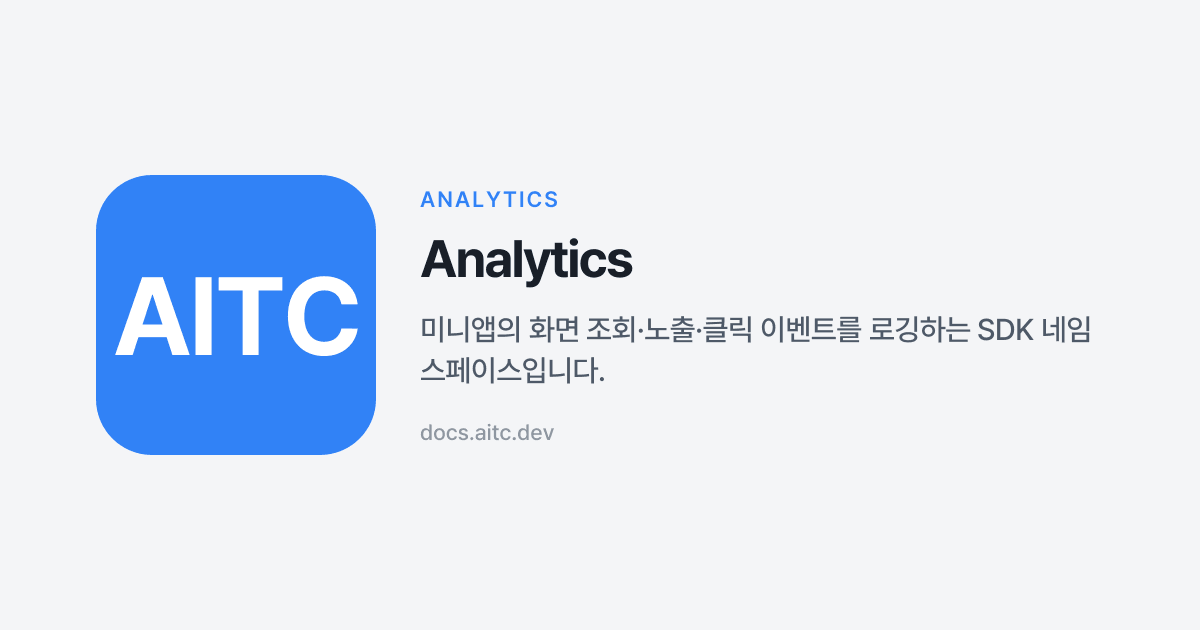
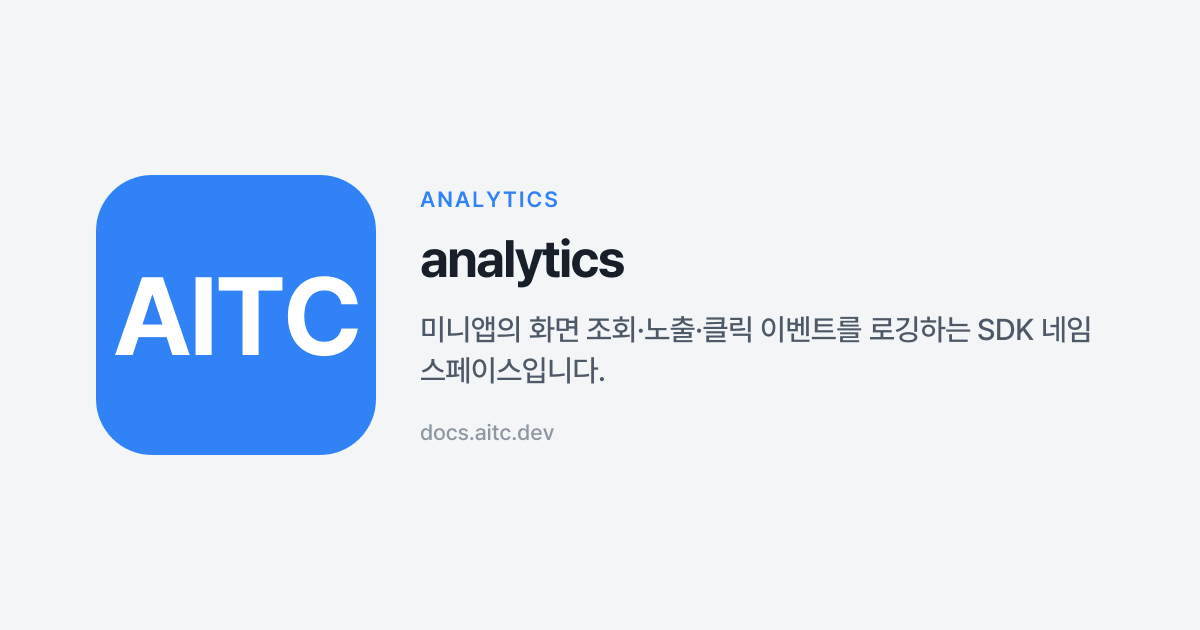
refactor: sweep 2026-05-19 — tone, sidebar order, namespace count, haptic overview (#77)
Tone / upstream 표현 제거:
- docusaurus.config.ts footer 'Upstream' → 'SDK Package'
- README.md / README.en.md: blockquote+이모지+굵은글씨 톤 제거, "upstream SDK docs" → 커뮤니티 표현
- i18n/en guides 8개 파일: "upstream SDK package." → "SDK package."
- auth-flow.mdx: "not the upstream behavior" → "runtime behaviour is simulated"

Sidebar 알파벳순 수정:
- API 사이드바: location을 game/haptic/iap 뒤로 이동 (events→game→haptic→iap→location 순)
- Guides 사이드바: event-logging ↔ event-subscription 순서 교환

네임스페이스 수 갱신:
- intro.md (ko/en): "16개/namespaces" → "18개/namespaces"

Overview convention 위반 수정:
- haptic overview (index.mdx) 삭제 — 메서드 1개(generateHapticFeedback)만 남아 규칙 위반
- generateHapticFeedback.mdx에 피드백 타입 표 인라인, 깨진 링크 수정
- sidebars.ts에서 haptic-overview 엔트리 제거

OG 이미지 동기화:
- static/og/api-haptic-saveBase64Data.png 삭제 (stale)
- static/og/api-haptic.png 삭제 (overview 삭제로 불필요)
- static/og/api-storage-saveBase64Data.png 생성 (누락 → build:og로 생성)

Frontmatter:
- i18n/en/api/storage/saveBase64Data.mdx에 image frontmatter 추가 (ko 버전과 일치)
- analytics/index.mdx: title 'Analytics' → 'analytics' (소문자, 다른 overview와 통일)

기존 broken anchor 수정:
- iap-state-queries.mdx: /guides/iap-payment-flow#복구-—-handling-pending-orders → 실제 앵커로 수정

Changed region(s): [[0.3392, 0.3619, 0.5242, 0.4524]]

diff --git a/sidebars.ts b/sidebars.ts
@@ -21,8 +21,8 @@ const sidebars: SidebarsConfig = {
         'guides/anonymous-key-game-session',
         'guides/auth-flow',
         'guides/camera-album-ux',
-        'guides/event-subscription',
         'guides/event-logging',
+        'guides/event-subscription',
         'guides/iap-payment-flow',
         'guides/iap-state-queries',
         'guides/location-permission-fallback',
@@ -141,16 +141,6 @@ const sidebars: SidebarsConfig = {
         },
         {
           type: 'category',
-          label: 'location',
-          collapsed: false,
-          items: [
-            'api/location/location-overview',
-            'api/location/getCurrentLocation',
-            'api/location/startUpdateLocation',
-          ],
-        },
-        {
-          type: 'category',
           label: 'game',
           collapsed: false,
           items: [
@@ -167,7 +157,7 @@ const sidebars: SidebarsConfig = {
           type: 'category',
           label: 'haptic',
           collapsed: false,
-          items: ['api/haptic/haptic-overview', 'api/haptic/generateHapticFeedback'],
+          items: ['api/haptic/generateHapticFeedback'],
         },
         {
           type: 'category',
@@ -183,6 +173,16 @@ const sidebars: SidebarsConfig = {
             'api/iap/getPendingOrders',
             'api/iap/getProductItemList',
             'api/iap/getSubscriptionInfo',
+          ],
+        },
+        {
+          type: 'category',
+          label: 'location',
+          collapsed: false,
+          items: [
+            'api/location/location-overview',
+            'api/location/getCurrentLocation',
+            'api/location/startUpdateLocation',
           ],
         },
         {

diff --git a/docusaurus.config.ts b/docusaurus.config.ts
@@ -121,7 +121,7 @@ const config: Config = {
           ],
         },
         {
-          title: 'Upstream',
+          title: 'SDK Package',
           items: [
             {
               label: '@apps-in-toss/web-framework (npm)',

diff --git a/docs/intro.md b/docs/intro.md
@@ -13,7 +13,7 @@ sidebar_position: 1
 ## 무엇을 찾을 수 있나요
 
 - **Guides** — 인증·결제·권한·이벤트 구독·광고·뷰럴 등 흔한 시나리오를 "왜/언제" 관점에서 설명. 현재 14편.
-- **API reference** — 16개 네임스페이스의 SDK 메서드를 그룹별로 정리. 파라미터·반환값·예제·관련 가이드를 한 페이지에.
+- **API reference** — 18개 네임스페이스의 SDK 메서드를 그룹별로 정리. 파라미터·반환값·예제·관련 가이드를 한 페이지에.
 - **Recipes** — 복사해서 바로 쓰는 짧은 스니펫. 클립보드 UX, 분석 추적, 게임 센터 연동, 환경별 분기 등 27편.
 - **Try it 링크** — 각 API 페이지는 [sdk-example](https://sdk-example.aitc.dev/)의 대응 페이지로 바로 이동하는 버튼을 제공합니다.
 

diff --git a/i18n/en/docusaurus-plugin-content-docs/current/intro.md b/i18n/en/docusaurus-plugin-content-docs/current/intro.md
@@ -12,7 +12,7 @@ Community guides and references for developers building Apps in Toss mini-apps w
 ## What's here
 
 - **Guides** — common scenarios (auth, IAP, permissions, event subscription, ads, viral) explained from a community "why/when" angle. 14 currently.
-- **API reference** — 16 namespaces of SDK methods grouped by namespace, with params, return value, examples, and related guides on one page.
+- **API reference** — 18 namespaces of SDK methods grouped by namespace, with params, return value, examples, and related guides on one page.
 - **Recipes** — short copy-paste snippets. Clipboard UX, analytics tracking, GameCenter integration, environment-based branching, and more. 27 currently.
 - **Try it** — every API page links to the matching page in [sdk-example](https://sdk-example.aitc.dev/) so you can run it live.
 

diff --git a/README.md b/README.md
@@ -2,9 +2,7 @@
 
 [English](./README.en.md)
 
-> 🚧 **Work in Progress** — 콘텐츠는 초기 단계지만, 사이트는 라이브입니다. `main` 푸시 시 GitHub Actions로 자동 배포됩니다.
-
-**Apps in Toss** 미니앱 개발을 위한 커뮤니티 문서 사이트. 원본 SDK 문서를 재구성한 **가이드/레퍼런스** 세트입니다.
+**Apps in Toss** 미니앱 개발을 위한 커뮤니티 문서 사이트. 가이드/레퍼런스 세트입니다. 콘텐츠는 초기 단계이며 `main` 푸시 시 GitHub Actions로 자동 배포됩니다.
 
 ## Goal
 

diff --git a/README.en.md b/README.en.md
@@ -2,9 +2,7 @@
 
 [한국어](./README.md)
 
-> 🚧 **Work in Progress** — content is early-stage, but the site is live. Pushed to `main` triggers an automatic deploy via GitHub Actions.
-
-**Apps in Toss** mini-app community documentation site. A reconstruction of the upstream SDK docs into **guides + reference**.
+**Apps in Toss** mini-app community documentation site. A community-curated reference built around the SDK — guides + reference. Content is early-stage; pushes to `main` trigger an automatic deploy via GitHub Actions.
 
 ## Goal
 
